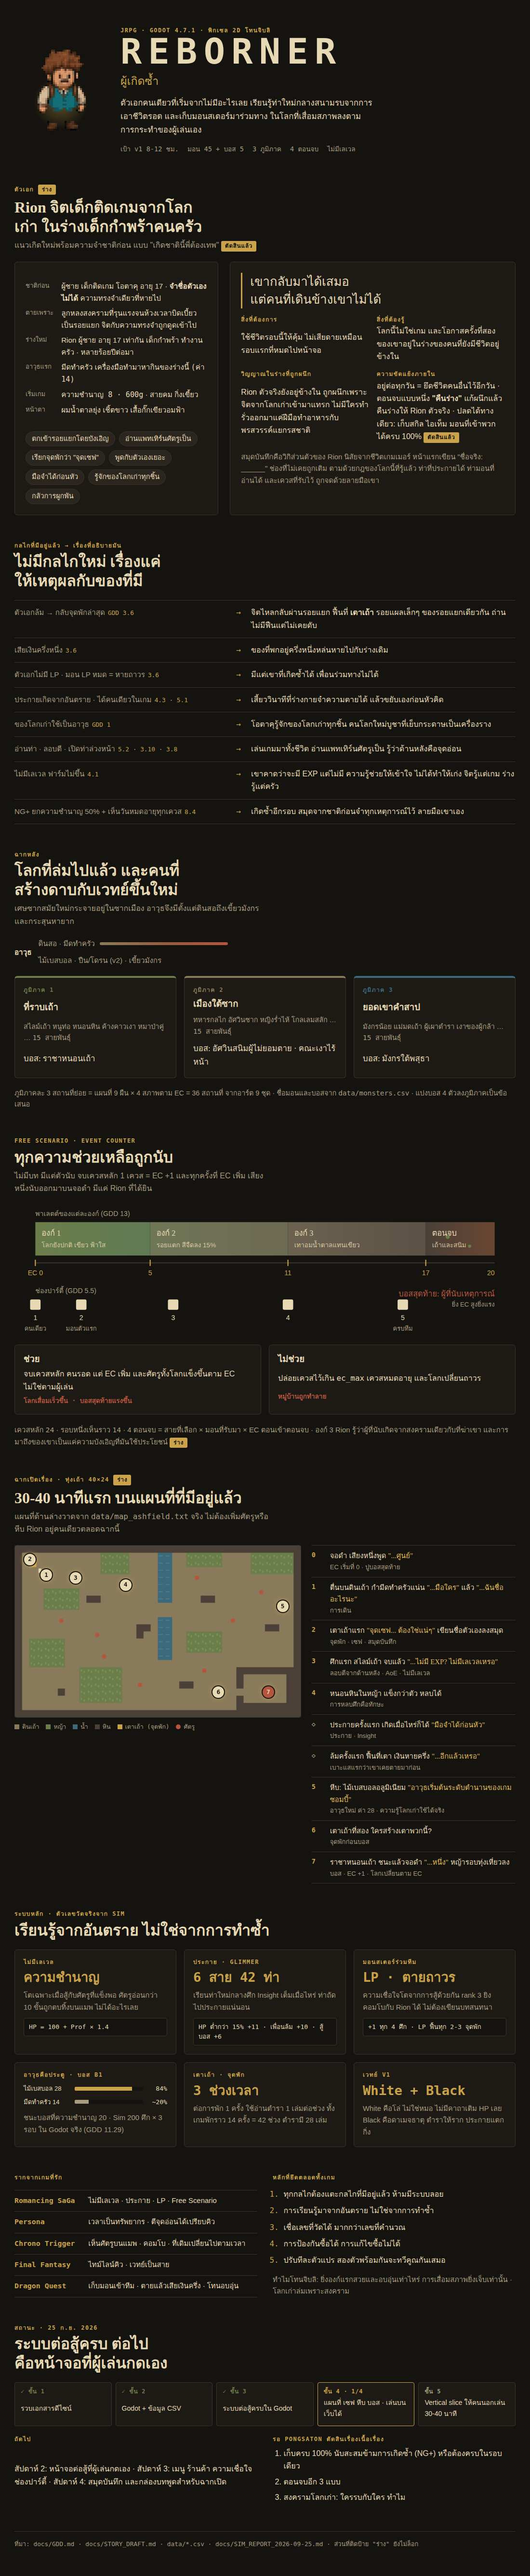
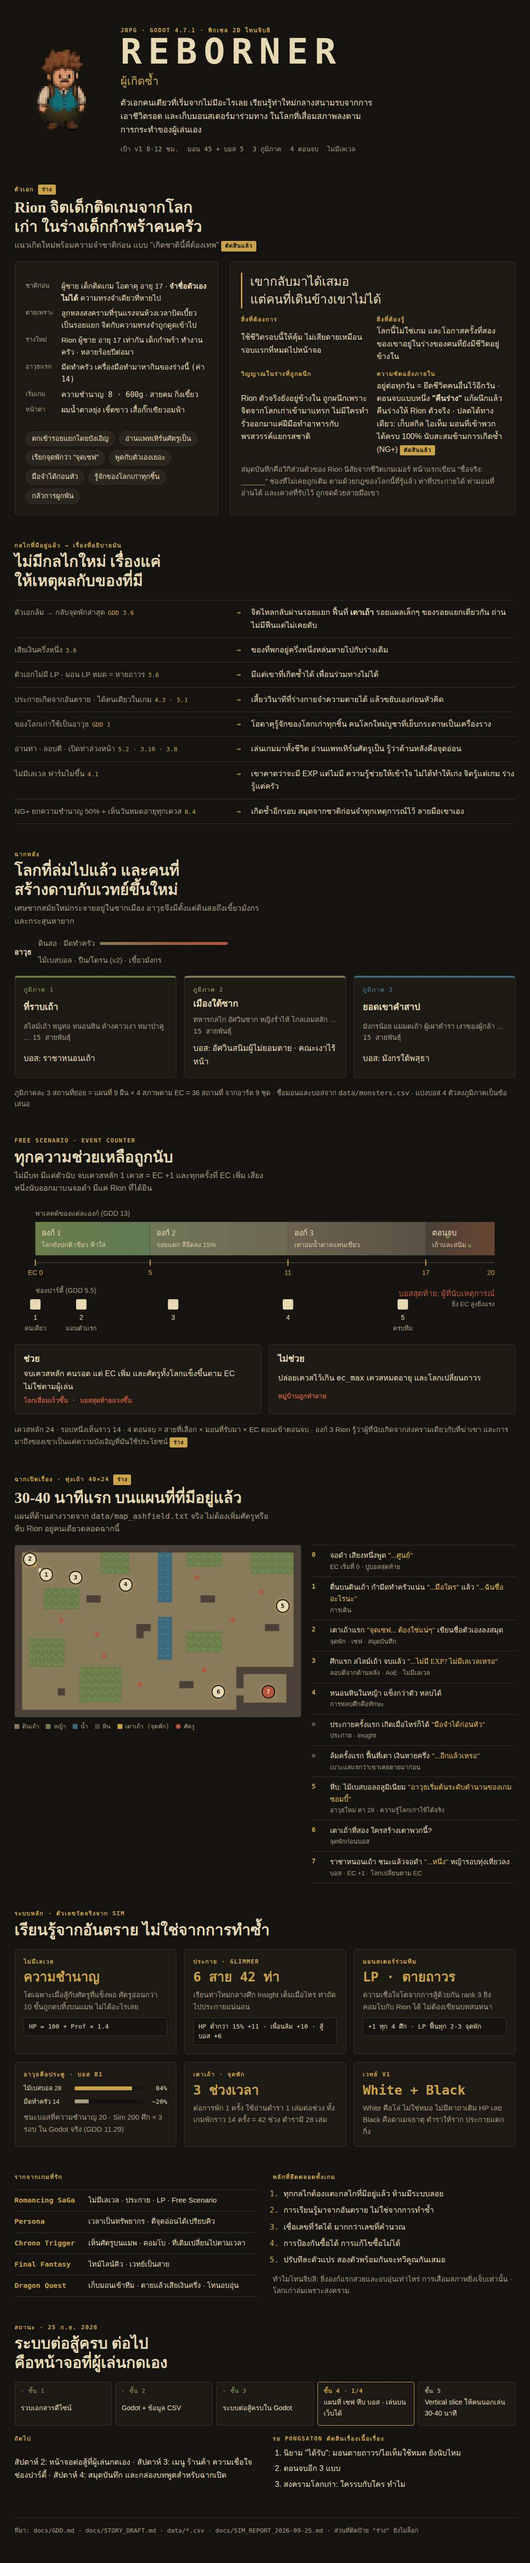
reborner: 100% collection counts cumulatively across NG+ rebirths
Claude-Session: https://claude.ai/code/session_01GQscemcyhAULQ41Vq3Zx3F

diff --git a/reborner/docs/INFOGRAPHIC.html b/reborner/docs/INFOGRAPHIC.html
@@ -234,7 +234,7 @@ footer { color: var(--muted); font: 500 0.8rem/1.6 var(--hud); border-top: 1px s
       </div>
       <div class="wantneed">
         <div><span class="label">วิญญาณในร่างที่ถูกผนึก</span><p>Rion ตัวจริงยังอยู่ข้างใน ถูกผนึกเพราะจิตจากโลกเก่าเข้ามาแทรก ไม่มีใครทำ รั่วออกมาแค่ฝีมือทำอาหารกับพรสวรรค์แยกรสชาติ</p></div>
-        <div><span class="label">ความขัดแย้งภายใน</span><p>อยู่ต่อทุกวัน = ยึดชีวิตคนอื่นไว้อีกวัน · ตอนจบแบบหนึ่ง <b>"คืนร่าง"</b> แก้ผนึกแล้วคืนร่างให้ Rion ตัวจริง · ปลดได้ทางเดียว: เก็บสกิล ไอเท็ม มอนที่เข้าพวกได้ครบ 100% <span class="draft">ตัดสินแล้ว</span></p></div>
+        <div><span class="label">ความขัดแย้งภายใน</span><p>อยู่ต่อทุกวัน = ยึดชีวิตคนอื่นไว้อีกวัน · ตอนจบแบบหนึ่ง <b>"คืนร่าง"</b> แก้ผนึกแล้วคืนร่างให้ Rion ตัวจริง · ปลดได้ทางเดียว: เก็บสกิล ไอเท็ม มอนที่เข้าพวกได้ครบ 100% นับสะสมข้ามการเกิดซ้ำ (NG+) <span class="draft">ตัดสินแล้ว</span></p></div>
       </div>
       <p style="color:var(--muted);font-size:0.93rem">สมุดบันทึกคือวิกิส่วนตัวของ Rion นิสัยจากชีวิตเกมเมอร์ หน้าแรกเขียน "ชื่อจริง: ______" ช่องที่ไม่เคยถูกเติม ตามด้วยกฎของโลกนี้ที่รู้แล้ว ท่าที่ประกายได้ ท่ามอนที่อ่านได้ และเควสที่รับไว้ ถูกจดด้วยลายมือเขา</p>
     </div>
@@ -495,7 +495,7 @@ footer { color: var(--muted); font: 500 0.8rem/1.6 var(--hud); border-top: 1px s
     <div class="sec" style="gap:10px">
       <span class="label">รอ Pongsaton ตัดสินเรื่องเนื้อเรื่อง</span>
       <ol class="open-q">
-        <li>เก็บครบ 100% นับสะสมข้ามการเกิดซ้ำ (NG+) หรือต้องครบในรอบเดียว</li>
+        <li>นิยาม "ได้รับ": มอนตายถาวร/ไอเท็มใช้หมด ยังนับไหม</li>
         <li>ตอนจบอีก 3 แบบ</li>
         <li>สงครามโลกเก่า: ใครรบกับใคร ทำไม</li>
       </ol>

diff --git a/reborner/docs/STORY_DRAFT.md b/reborner/docs/STORY_DRAFT.md
@@ -138,14 +138,14 @@
 
 **"คืนร่าง"** แก้ผนึก แล้วคืนร่างให้ Rion ตัวจริง
 - **เงื่อนไขปลดผนึก (✅ ตัดสินแล้ว):** ทางเดียวคือเก็บ **สกิล ไอเท็ม และมอนที่เข้าพวกได้ทุกตัว ครบ 100%** ← ตอนจบแบบ "ทรูเอนด์" สำหรับคนเก็บครบ
-- ⚠ **ขัดกับ GDD ถ้านับในรอบเดียว** — ดีไซน์ตั้งใจให้รอบหนึ่งเก็บไม่ครบ:
+- เหตุผลที่ต้องนับสะสม — ดีไซน์ตั้งใจให้รอบหนึ่งเก็บไม่ครบ:
   - เควสเห็นได้ 14 จาก 24 (8.1 · mutex) → ไอเท็ม/มอนที่ผูกกับเควสอีก 10 เควสหายไปในรอบนั้น
   - รับมอนได้ราว 4 จาก 20 ตัวต่อรอบ (GDD 14 ข้อ 2) · ช่องปาร์ตี้สูงสุด 5 (5.5)
   - ต้นไม้ท่า 42 ท่า 6 สาย แต่เชี่ยวได้จริง 2-3 สายใน 10 ชม. (4.1)
   - ตำรา 28 เล่ม กับช่วงเวลาที่จุดพักราว 42 ช่วง (7.4)
-- **ข้อเสนอ: นับสะสมข้ามการเกิดซ้ำ (NG+)** บันทึกในสมุดของ Rion ทุกชาติ พอสมุดครบ 100% ผนึกจึงปลดได้
+- **✅ ตัดสินแล้ว: นับสะสมข้ามการเกิดซ้ำ (NG+)** บันทึกในสมุดของ Rion ทุกชาติ พอสมุดครบ 100% ผนึกจึงปลดได้
   → ตรงกับชื่อเกม (ผู้เกิดซ้ำ) · ตรงกับ GDD 14 ข้อ 2 ที่อยากได้ความยาวจากการเล่นซ้ำ 6-8 รอบ ไม่ใช่ยืดรอบเดียว · ไม่ต้องแก้ตัวเลขที่จูนแล้ว
-  → ถ้าต้องการให้ครบในรอบเดียวได้ ต้องรื้อ mutex/วันหมดอายุเควส/ช่องปาร์ตี้ ซึ่งกระทบสมดุลทั้งเกม (**รอ Pongsaton เลือก**)
+  → สิ่งที่ต้องทำในเซฟ: แยก "สมุดสะสม" ออกจากเซฟรายรอบ ไม่ถูกล้างเมื่อเริ่ม NG+ (ยังไม่ได้ทำ · ทำพร้อมระบบสมุดบันทึก สัปดาห์ 4)
 - ต้องนิยาม "ได้รับ" ให้ชัดก่อนทำระบบ: มอนตายถาวรแล้วยังนับไหม (ข้อเสนอ: นับ เพราะความคืบหน้าเก็บที่สายพันธุ์ · 3.6) · ไอเท็มใช้หมดแล้วยังนับไหม (ข้อเสนอ: นับครั้งแรกที่ได้)
 - ไอเท็มที่ได้จากดรอปแบบสุ่ม (ตำรากลาง 15-25% · 7.3) ต้องมีทางได้แน่นอนสำรอง ไม่งั้นทรูเอนด์ขึ้นกับดวง (กฎ 7.3 "อะไรที่ขาดแล้วเกมพัง ห้ามเป็น RNG")
 - ดันเจี้ยนสุดท้ายใช้ร่วมกัน ต่างแค่ฉากปิด 5-8 นาที (8.4) → ตอนจบนี้ = ฉากปิดแบบหนึ่ง ไม่ต้องสร้างด่านเพิ่ม
@@ -177,9 +177,9 @@
 - ชื่อ ปิ่น / ยายขี้เถ้า **ใช้ไปก่อน**
 - ผนึกเกิดจาก **การเข้ามาแทรก** ของจิตจากโลกเก่า ไม่มีใครทำ
 - ตอนจบแบบหนึ่งใน 4 = **คืนร่างให้ Rion ตัวจริง** (ดู 4.5)
-- เงื่อนไขปลดผนึก = เก็บสกิล ไอเท็ม มอนที่เข้าพวกได้ **ครบ 100%** (ทางเดียว)
+- เงื่อนไขปลดผนึก = เก็บสกิล ไอเท็ม มอนที่เข้าพวกได้ **ครบ 100%** (ทางเดียว) · **นับสะสมข้ามการเกิดซ้ำ (NG+)**
 
 ยังเปิดอยู่:
-1. เก็บครบ 100% นับ **สะสมข้าม NG+** (ข้อเสนอ) หรือ **ในรอบเดียว** (ต้องรื้อดีไซน์)
+1. นิยาม "ได้รับ": มอนตายถาวรแล้วนับไหม · ไอเท็มใช้หมดแล้วนับไหม (ข้อเสนอ: นับทั้งคู่)
 2. ตอนจบอีก 3 แบบ
 3. สงครามโลกเก่า: ใครรบกับใคร ทำไม

diff --git a/reborner/docs/GDD.md b/reborner/docs/GDD.md
@@ -639,7 +639,7 @@ enemy_tier | unlocks_char | sets_world_flag
 - ตัวเอก 1 คน (คงที่) + **NPC ร่วมทางที่ไม่ลงสนามรบ 2-3 คน** — ได้ตัวละครให้ผูกพันโดยไม่ต้องบาลานซ์และไม่ต้องทำอนิเมชันต่อสู้
 - ตอนจบตัดสินจาก: สาย mutex ที่เลือก × มอนที่รับมา × EC ตอนเข้าตอนจบ → **4 ตอนจบ**
 - ดันเจี้ยนสุดท้ายใช้ร่วมกัน ต่างกันแค่ฉากปิด 5-8 นาที (combinatorics ไม่ใช่เขียนสี่เรื่อง)
-- New Game+: ยกความชำนาญมา 50% และแสดง `ec_max` ของทุกเควส
+- New Game+: ยกความชำนาญมา 50% และแสดง `ec_max` ของทุกเควส · สมุดสะสมการเก็บ (สกิล/ไอเท็ม/มอน) ข้ามรอบ → ครบ 100% ปลดตอนจบ "คืนร่าง" (ดู `docs/STORY_DRAFT.md` 4.5)
 
 ### 8.5 บอสสุดท้าย
 
